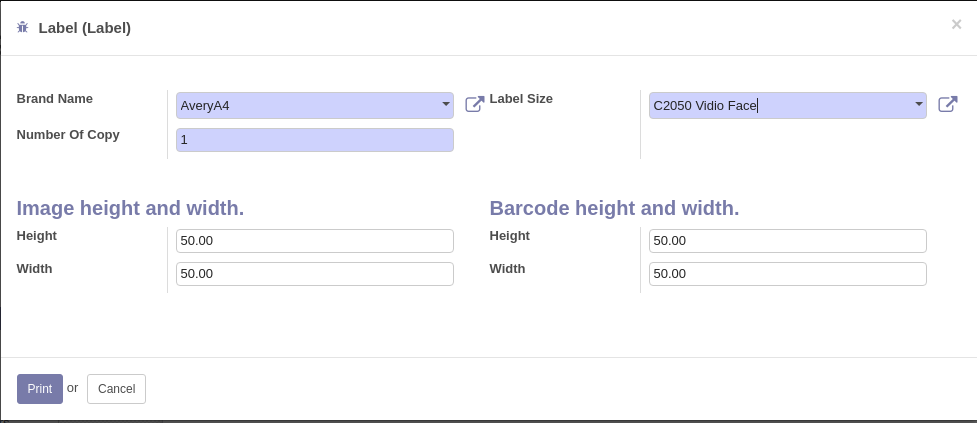
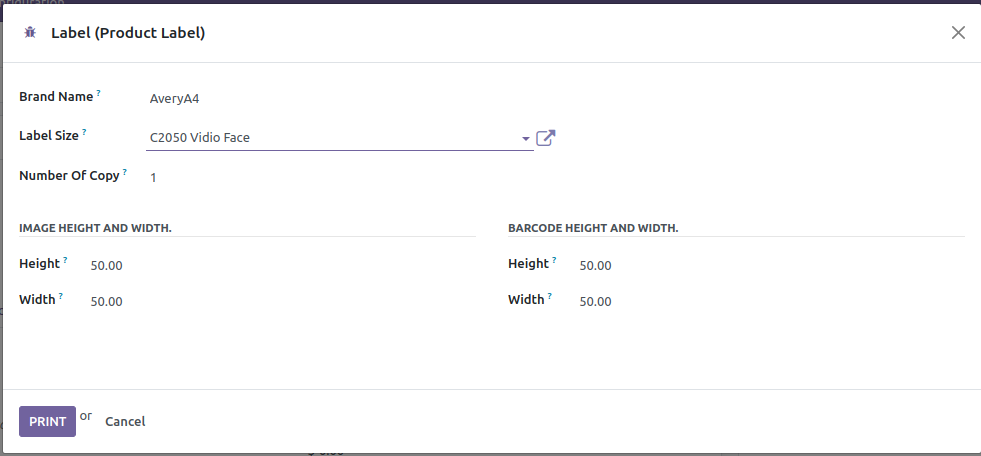
[MIG] Migrated label v14 to v16.

diff --git a/label/report/dynamic_label.py b/label/report/dynamic_label.py
@@ -31,7 +31,7 @@ class ReportDynamicLabel(models.AbstractModel):
                     if field.python_expression and field.python_field:
                         string = field.python_field.split(".")[-1]
                         value = eval(field.python_field, {"obj": datas})
-            
+
                     elif field.field_id.name:
                         string = field.field_id.field_description
                         value = getattr(datas, field.field_id.name)
@@ -65,9 +65,9 @@ class ReportDynamicLabel(models.AbstractModel):
                                 "bottom": True,
                                 "type": field.type,
                                 "newline": field.newline,
-                                "style":          
+                                "style":
                                     "font-size:" +
-                                str(field.fontsize) + "px;" + pos,
+                                    str(field.fontsize) + "px;" + pos,
                             }
                     else:
                         bot = False
@@ -77,8 +77,8 @@ class ReportDynamicLabel(models.AbstractModel):
                             "value": value,
                             "type": field.type,
                             "newline": field.newline,
-                            "style": 
-                            "font-size:" + str(field.fontsize) + "px;" + pos,
+                            "style":
+                                "font-size:" + str(field.fontsize) + "px;" + pos,
                         }
                         vals.append(vals_dict)
                 if bot_dict != {}:

diff --git a/label/models/label_print.py b/label/models/label_print.py
@@ -7,7 +7,6 @@ from odoo.exceptions import UserError, ValidationError
 
 class LabelPrint(models.Model):
     _name = "label.print"
-
     _description = "Label Print"
 
     name = fields.Char("Name", size=64, required=True, index=True)
@@ -63,9 +62,9 @@ class LabelPrint(models.Model):
         return True
 
     def unlink_action(self):
-        for template in self:
-            if template.ref_ir_act_report.id:
-                template.ref_ir_act_report.unlink()
+        actions_to_unlink = [template.ref_ir_act_report for template in self if template.ref_ir_act_report.id]
+        for action in actions_to_unlink:
+            action.unlink()
         return True
 
 

diff --git a/label/wizard/label_print_wizard.py b/label/wizard/label_print_wizard.py
@@ -46,7 +46,7 @@ class LabelPrintWizard(models.TransientModel):
             return False
         total_record = len(self._context.get("active_ids", []))
         datas = {}
-        for data in self.browse(self.ids):
+        for data in self:
             column = float(210) / float(data.name.width or 1)
             total_row = math.ceil(float(total_record) / (column or 1))
             no_row_per_page = int(297 / data.name.height)

diff --git a/label/__manifest__.py b/label/__manifest__.py
@@ -1,9 +1,9 @@
 # See LICENSE file for full copyright and licensing details.
 {
     "name": "Mass Label Reporting",
-    "version": "14.0.1.0.0",
+    "version": "16.0.1.0.0",
     "category": "Tools",
-    "license": "AGPL-3",
+    "license": "LGPL-3",
     "summary": "Generate customised labels of any document",
     "author": "Serpent Consulting Services Pvt. Ltd.",
     "website": "http://www.serpentcs.com",

diff --git a/label/README.rst b/label/README.rst
@@ -1,6 +1,6 @@
-==================
+=====
 Label
-==================
+=====
 
 * This module will let you print particular product name, image and barcode
 
